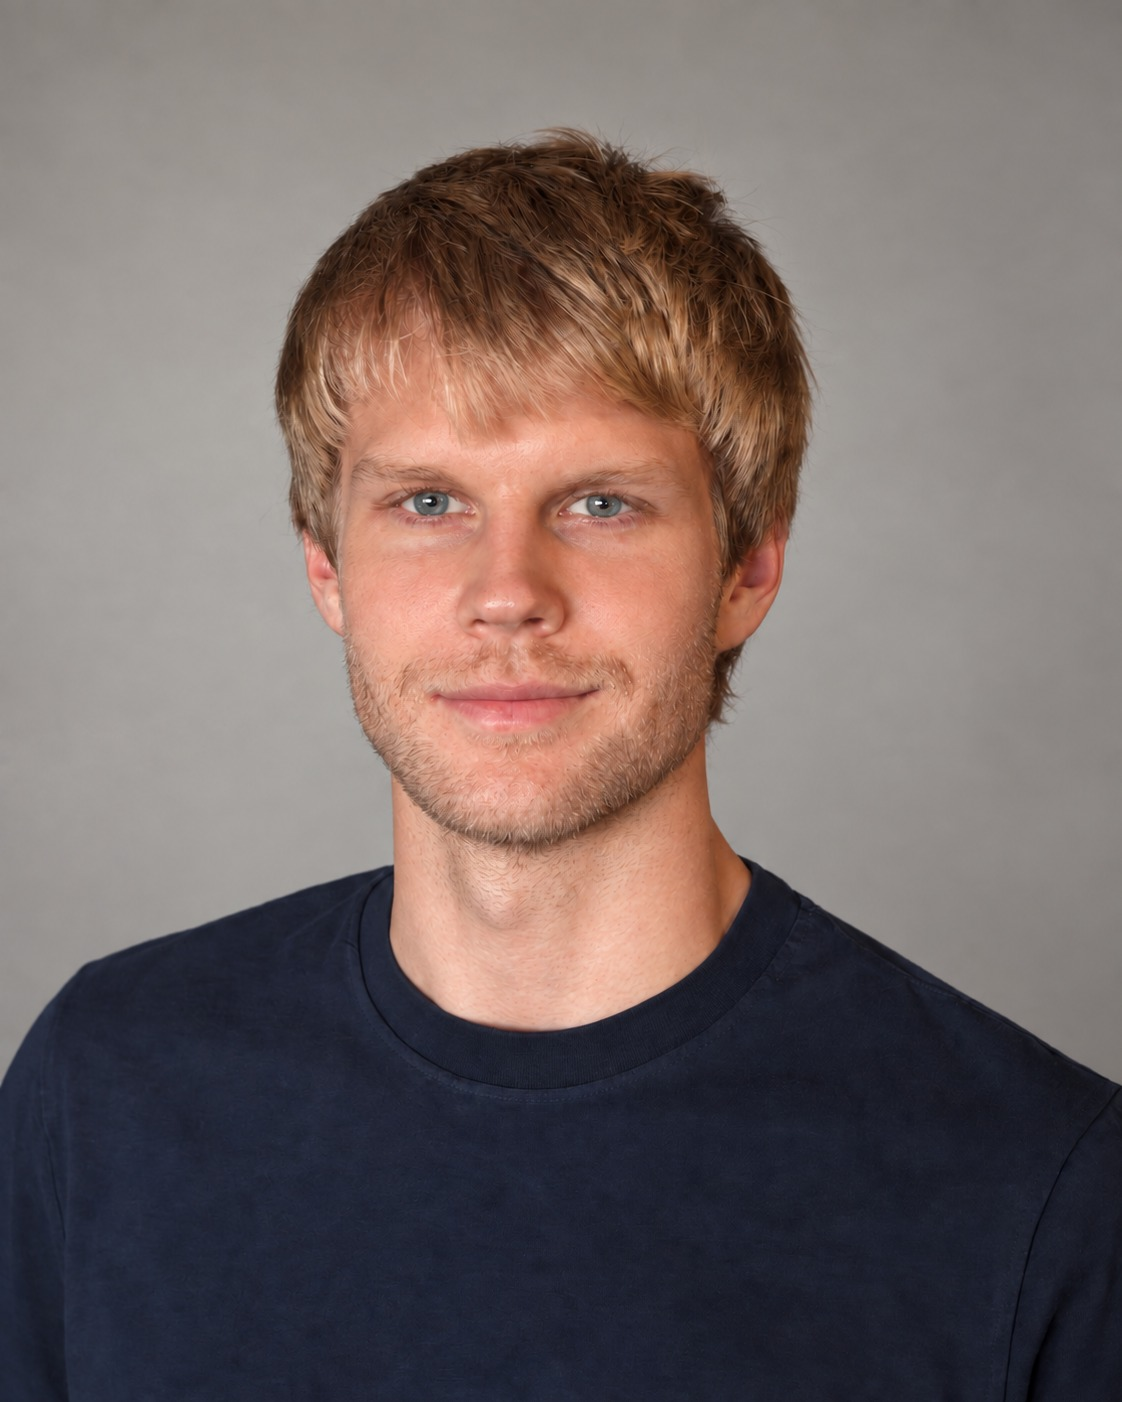
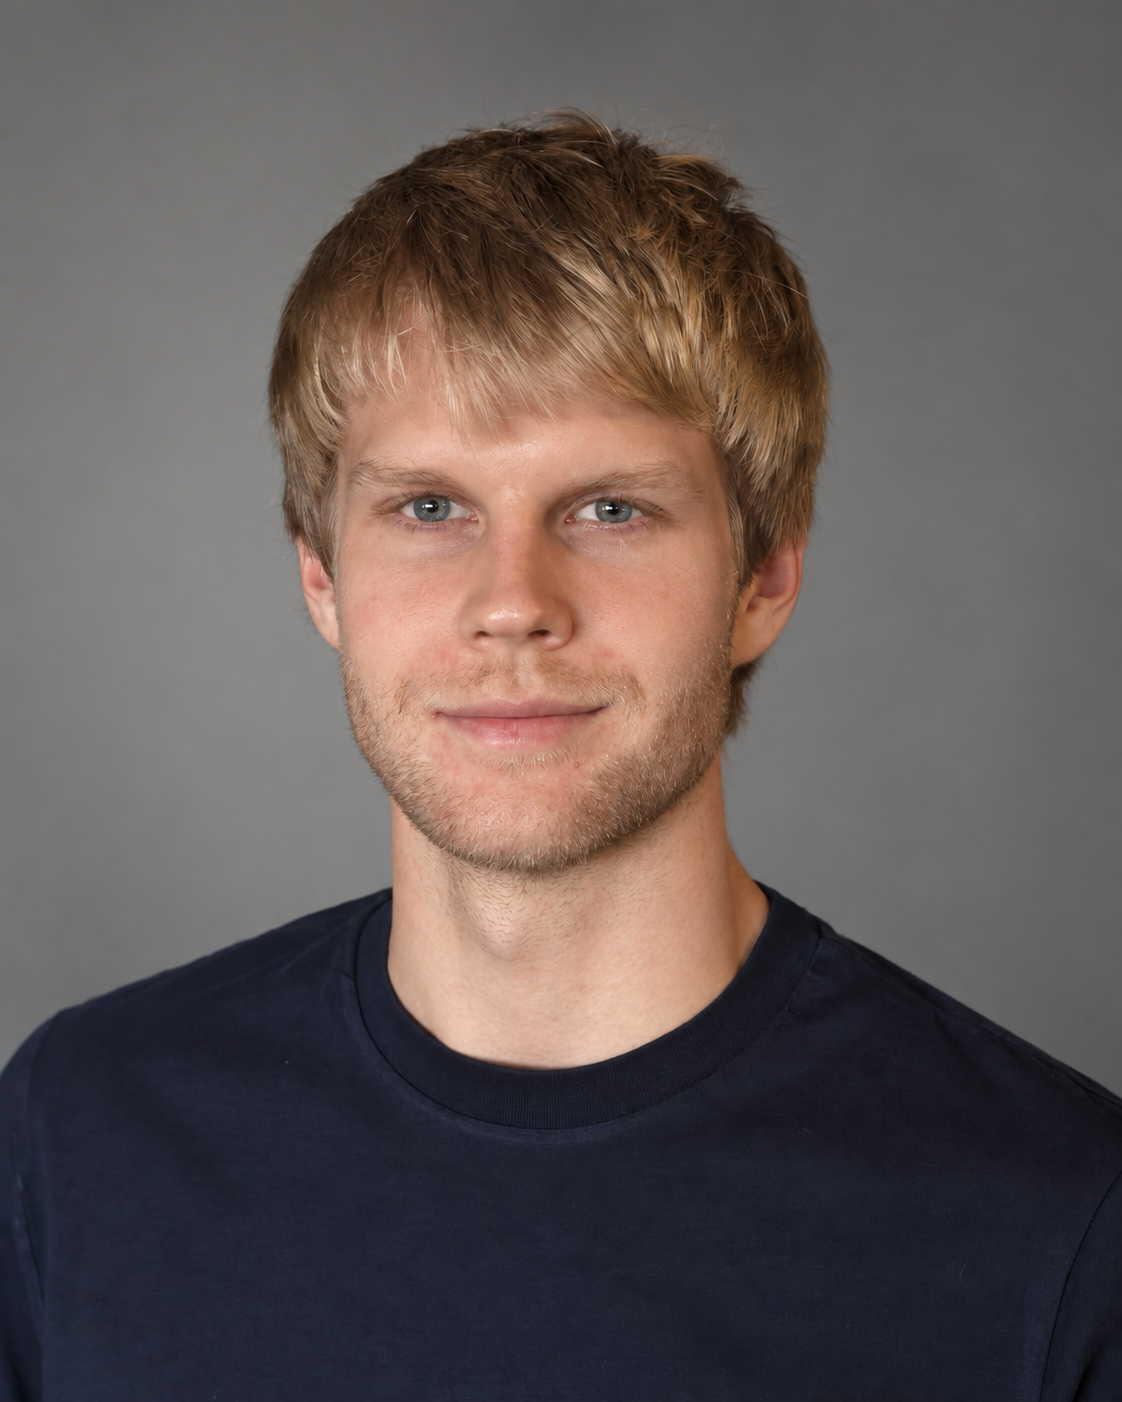
Use natural lossless sRGB portrait throughout portfolio

diff --git a/index.html b/index.html
@@ -39,7 +39,7 @@
     <div class="d-flex flex-column">
 
       <div class="profile">
-        <img src="assets/img/wiktor-galazka-portrait.jpg?v=20260929-retouched-02" alt="Wiktor Gałązka" class="img-fluid rounded-circle cv-portrait">
+        <img src="assets/img/wiktor-galazka-portrait-natural-srgb.png" alt="Wiktor Gałązka" class="img-fluid rounded-circle cv-portrait">
         <h1 class="text-light"><a href="index.html">Wiktor Gałązka</a></h1>
         <div class="social-links mt-3 text-center">
           <a href="https://www.facebook.com/wiktor.galazka1337" class="facebook" aria-label="Facebook"><i class="bx bxl-facebook"></i></a>
@@ -81,7 +81,7 @@
           <p class="fst-italic">Hi, I'm Wiktor, a Platform / DevOps engineer based in Jaworzno, Poland. I own production release execution and build cloud automation for enterprise Data &amp; AI and SaaS platforms.</p>
         </div>
         <div class="row">
-          <div class="col-lg-4" data-aos="fade-right"><img src="assets/img/wiktor-galazka-portrait.jpg?v=20260929-retouched-02" class="img-fluid cv-portrait" alt="Wiktor Gałązka"></div>
+          <div class="col-lg-4" data-aos="fade-right"><img src="assets/img/wiktor-galazka-portrait-natural-srgb.png" class="img-fluid cv-portrait" alt="Wiktor Gałązka"></div>
           <div class="col-lg-8 pt-4 pt-lg-0 content" data-aos="fade-left">
             <h3>Platform / DevOps Engineer</h3>
             <div class="row">

diff --git a/iPortfolio/index.html b/iPortfolio/index.html
@@ -46,7 +46,7 @@
     <div class="d-flex flex-column">
 
       <div class="profile">
-        <img src="assets/img/profile-img.jpg?v=20260929-retouched-02" alt="" class="img-fluid rounded-circle" style="width:120px;height:120px;object-fit:cover;object-position:50% 20%;">
+        <img src="assets/img/wiktor-galazka-portrait-natural-srgb.png" alt="" class="img-fluid rounded-circle" style="width:120px;height:120px;object-fit:cover;object-position:50% 20%;">
         <h1 class="text-light"><a href="index.html">Wiktor Gałązka</a></h1>
         <div class="social-links mt-3 text-center">
           <!--<a href="#" class="twitter"><i class="bx bxl-twitter"></i></a>
@@ -101,7 +101,7 @@
     
         <div class="row">
           <div class="col-lg-4" data-aos="fade-right">
-            <img src="assets/img/profile-img - Copy.jpg?v=20260929-retouched-02" class="img-fluid" alt="" style="width:100%;height:auto;aspect-ratio:1;object-fit:cover;object-position:50% 20%;">
+            <img src="assets/img/wiktor-galazka-portrait-natural-srgb.png" class="img-fluid" alt="" style="width:100%;height:auto;aspect-ratio:1;object-fit:cover;object-position:50% 20%;">
           </div>
           <div class="col-lg-8 pt-4 pt-lg-0 content" data-aos="fade-left">
             <h3>Computer Science Student</h3>

diff --git a/iPortfolio/portfolio-details-2.html b/iPortfolio/portfolio-details-2.html
@@ -46,7 +46,7 @@
     <div class="d-flex flex-column">
 
       <div class="profile">
-        <img src="assets/img/profile-img.jpg?v=20260929-retouched-02" alt="" class="img-fluid rounded-circle" style="width:120px;height:120px;object-fit:cover;object-position:50% 20%;">
+        <img src="assets/img/wiktor-galazka-portrait-natural-srgb.png" alt="" class="img-fluid rounded-circle" style="width:120px;height:120px;object-fit:cover;object-position:50% 20%;">
         <h1 class="text-light"><a href="index.html">Wiktor Gałązka</a></h1>
         <div class="social-links mt-3 text-center">
           <!--<a href="#" class="twitter"><i class="bx bxl-twitter"></i></a>

diff --git a/iPortfolio/portfolio-details.html b/iPortfolio/portfolio-details.html
@@ -46,7 +46,7 @@
     <div class="d-flex flex-column">
 
       <div class="profile">
-        <img src="assets/img/profile-img.jpg?v=20260929-retouched-02" alt="" class="img-fluid rounded-circle" style="width:120px;height:120px;object-fit:cover;object-position:50% 20%;">
+        <img src="assets/img/wiktor-galazka-portrait-natural-srgb.png" alt="" class="img-fluid rounded-circle" style="width:120px;height:120px;object-fit:cover;object-position:50% 20%;">
         <h1 class="text-light"><a href="index.html">Wiktor Gałązka</a></h1>
         <div class="social-links mt-3 text-center">
           <!--<a href="#" class="twitter"><i class="bx bxl-twitter"></i></a>

diff --git a/portfolio-details-2.html b/portfolio-details-2.html
@@ -46,7 +46,7 @@
     <div class="d-flex flex-column">
 
       <div class="profile">
-        <img src="assets/img/profile-img.jpg?v=20260929-retouched-02" alt="" class="img-fluid rounded-circle" style="width:120px;height:120px;object-fit:cover;object-position:50% 20%;">
+        <img src="assets/img/wiktor-galazka-portrait-natural-srgb.png" alt="" class="img-fluid rounded-circle" style="width:120px;height:120px;object-fit:cover;object-position:50% 20%;">
         <h1 class="text-light"><a href="index.html">Wiktor Gałązka</a></h1>
         <div class="social-links mt-3 text-center">
           <!--<a href="#" class="twitter"><i class="bx bxl-twitter"></i></a>

diff --git a/portfolio-details.html b/portfolio-details.html
@@ -46,7 +46,7 @@
     <div class="d-flex flex-column">
 
       <div class="profile">
-        <img src="assets/img/profile-img.jpg?v=20260929-retouched-02" alt="" class="img-fluid rounded-circle" style="width:120px;height:120px;object-fit:cover;object-position:50% 20%;">
+        <img src="assets/img/wiktor-galazka-portrait-natural-srgb.png" alt="" class="img-fluid rounded-circle" style="width:120px;height:120px;object-fit:cover;object-position:50% 20%;">
         <h1 class="text-light"><a href="index.html">Wiktor Gałązka</a></h1>
         <div class="social-links mt-3 text-center">
           <!--<a href="#" class="twitter"><i class="bx bxl-twitter"></i></a>

diff --git a/iPortfolio/inner-page.html b/iPortfolio/inner-page.html
@@ -46,7 +46,7 @@
     <div class="d-flex flex-column">
 
       <div class="profile">
-        <img src="assets/img/profile-img.jpg?v=20260929-retouched-02" alt="" class="img-fluid rounded-circle" style="width:120px;height:120px;object-fit:cover;object-position:50% 20%;">
+        <img src="assets/img/wiktor-galazka-portrait-natural-srgb.png" alt="" class="img-fluid rounded-circle" style="width:120px;height:120px;object-fit:cover;object-position:50% 20%;">
         <h1 class="text-light"><a href="index.html">Alex Smith</a></h1>
         <div class="social-links mt-3 text-center">
           <a href="#" class="twitter"><i class="bx bxl-twitter"></i></a>

diff --git a/inner-page.html b/inner-page.html
@@ -46,7 +46,7 @@
     <div class="d-flex flex-column">
 
       <div class="profile">
-        <img src="assets/img/profile-img.jpg?v=20260929-retouched-02" alt="" class="img-fluid rounded-circle" style="width:120px;height:120px;object-fit:cover;object-position:50% 20%;">
+        <img src="assets/img/wiktor-galazka-portrait-natural-srgb.png" alt="" class="img-fluid rounded-circle" style="width:120px;height:120px;object-fit:cover;object-position:50% 20%;">
         <h1 class="text-light"><a href="index.html">Alex Smith</a></h1>
         <div class="social-links mt-3 text-center">
           <a href="#" class="twitter"><i class="bx bxl-twitter"></i></a>
